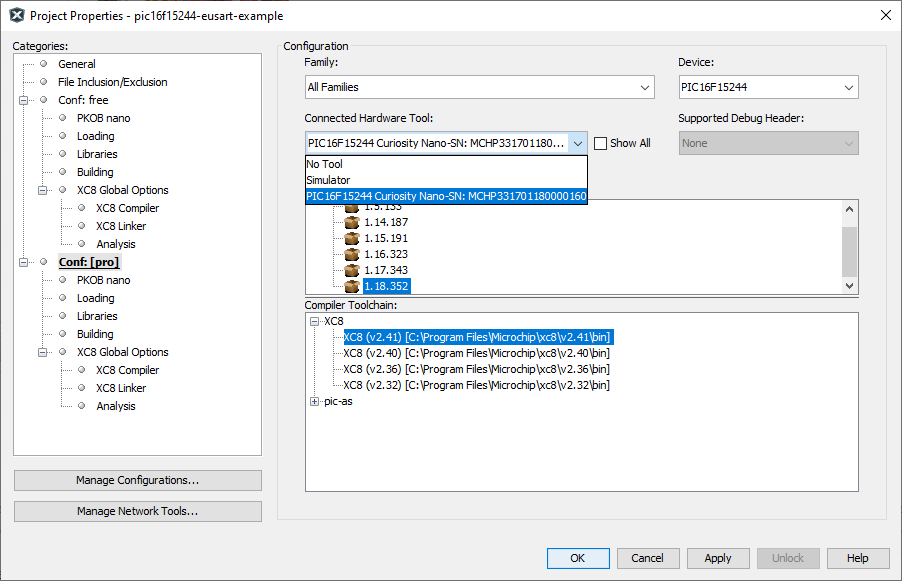
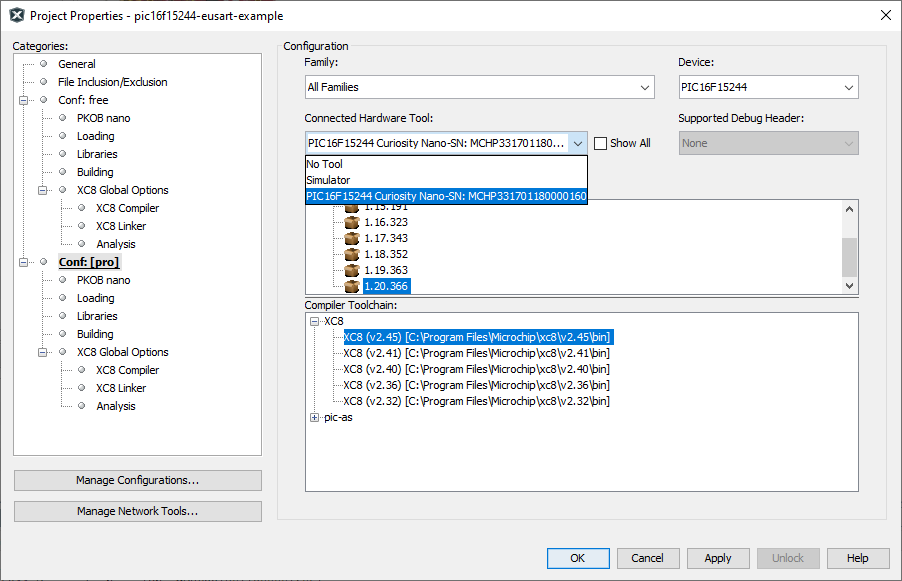
MPAE-15857: Update README and upgrade to mplabx v6.15 and xc8 v2.45

diff --git a/pic16f15244-eusart-example.X/mcc_generated_files/uart/src/eusart1.c b/pic16f15244-eusart-example.X/mcc_generated_files/uart/src/eusart1.c
@@ -95,7 +95,7 @@ void EUSART1_Initialize(void)
 {
     // Set the EUSART1 module to the options selected in the user interface.
 
-    //ABDEN disabled; WUE disabled; BRG16 16bit_generator; SCKP Non-Inverted; ABDOVF no_overflow; 
+    //ABDEN disabled; WUE disabled; BRG16 16bit_generator; SCKP Non-Inverted; 
     BAUD1CON = 0x48; 
     //ADDEN disabled; CREN enabled; SREN disabled; RX9 8-bit; SPEN enabled; 
     RC1STA = 0x90; 

diff --git a/pic16f15244-eusart-example.X/mcc_generated_files/system/src/pins.c b/pic16f15244-eusart-example.X/mcc_generated_files/system/src/pins.c
@@ -65,11 +65,6 @@ void PIN_MANAGER_Initialize(void)
     WPUB = 0x0;
     WPUC = 0x0;
   
-
-    /**
-    APFCONx registers
-    */
-
     /**
     ODx registers
     */
@@ -95,6 +90,10 @@ void PIN_MANAGER_Initialize(void)
     */
     RX1PPS = 0x11; //RC1->EUSART1:RX1;
     RC0PPS = 0x05;  //RC0->EUSART1:TX1;
+
+    /**
+    APFCON registers
+    */
 
    /**
     IOCx registers 

diff --git a/README.md b/README.md
@@ -9,75 +9,80 @@ The 'pic16f15244-eusart-example' code example uses the PIC16F15244 Curiosity Nan
 ![Curiosity Nano Development Board](images/NanoHighlights.png)
 
 ## Related Documentation
+
 - [PIC16F15244 Product Page](https://www.microchip.com/wwwproducts/en/PIC16F15244)
 
 ## Software Used
-- MPLAB® X IDE 6.05 or newer [(microchip.com/mplab/mplab-x-ide)](http://www.microchip.com/mplab/mplab-x-ide)
-- MPLAB® XC8 2.41 or a newer compiler [(microchip.com/mplab/compilers)](http://www.microchip.com/mplab/compilers)
-- MPLAB® Code Configurator (MCC) 5.3.7 or newer [(microchip.com/mplab/mplab-code-configurator)](https://www.microchip.com/mplab/mplab-code-configurator)
-- Microchip PIC16F1xxxx Series Device Support (1.18.352) or newer [(packs.download.microchip.com/)](https://packs.download.microchip.com/)
+
+- [MPLAB® X IDE 6.15 or newer](http://www.microchip.com/mplab/mplab-x-ide)
+- [MPLAB® XC8 2.45 or a newer compiler](http://www.microchip.com/mplab/compilers)
+- [MPLAB® Code Configurator (MCC) 5.3.7 or newer](https://www.microchip.com/mplab/mplab-code-configurator)
+- [Microchip PIC16F1xxxx Series Device Support (1.20.366) or newer](https://packs.download.microchip.com/)
 
 ## Hardware Used
-- PIC16F15244 Curiosity Nano [(EV09Z19A)](https://www.microchip.com/Developmenttools/ProductDetails/EV09Z19A)
+
+- [PIC16F15244 Curiosity Nano](https://www.microchip.com/Developmenttools/ProductDetails/EV09Z19A)
 - Micro-USB to USB 2.0 cable
 
 ## Setup
+
 1. Connect the PIC16f15244 Curiosity Nano board to a PC using the Micro-USB to USB 2.0 cable.
-2. If not already on your system, download and install MPLABX IDE version 6.10 (or newer).
-3. If not already on your system, download and install the XC8 C-Compiler version 2.41 (or newer).
+2. If not already on your system, download and install MPLABX IDE version 6.15 or newer.
+3. If not already on your system, download and install the XC8 C-Compiler version 2.45 or newer.
 4. Open the 'pic16f15244-eusart-example.X' project as shown in Figure 1.
 
-  ###### Figure 1: Open Project Window
-  ![Open Project Window](images/OpenProject.png)
+##### Figure 1: Open Project Window
+![Open Project Window](images/OpenProject.png)
 
-5. Press the 'Project Properites' button to open the Project Properties window. Select the Curiosity tool from the Tools drop-down menu as shown in Figure 2.
+5. Press the 'Project Properties' button to open the Project Properties window. Select the Curiosity tool from the Tools drop-down menu as shown in Figure 2.
 
-  ###### Figure 2: Select the Nano in Project Properties Window
-  ![Select Tool](images/SelectTool.png)
+##### Figure 2: Select the Nano in Project Properties Window
+![Select Tool](images/SelectTool.png)
 
-6. Press the 'Make and Program Device' button to program the PIC (see Figure 3). Verify that the device was successfully programmed (see Figure 4).
-
-  ###### Figure 3: 'Make and Program Device' Button
-  ![Program Device Button](images/MakeAndProgramButton.png)
-
-  ###### Figure 4: Program Complete
-  ![Program Complete](images/ProgramSuccess.png)
+6. Press the 'Make and Program Device' button to program the PIC (see Figure 3). Verify that the device is successfully programmed (see Figure 4).
+##### Figure 3: 'Make and Program Device' Button
+![Program Device Button](images/MakeAndProgramButton.png)
+##### Figure 4: Program Complete
+![Program Complete](images/ProgramSuccess.png)
 
 7. Open a terminal program on your PC. For this example, Tera Term was used as the terminal program.
 
-  a. Select the port that is used by the Nano board as shown in Figure 5. <br />
-  b. Configure the serial port as shown in Figure 6. <br />
-  ###### Figure 5: Select the USB Port
-  ![Select USB Port](images/SelectPort.png)
+  a. Port Selection is used by the Nano board as shown in Figure 5.
+  b. Configure the serial port as shown in Figure 6.
 
-  ###### Figure 6: Configure the Serial Port
-  ![Configure Serial Port](images/PortConfig.png)
+##### Figure 5: Select the USB Port
+![Select USB Port](images/SelectPort.png)
+
+##### Figure 6: Configure the Serial Port
+![Configure Serial Port](images/PortConfig.png)
 
 ## Operation
+
 After the Nano board is programmed, the EUSART module will transmit the string "Hello World!" to the PC terminal window at a baud rate of 9600 bps. Output pin RC0 is configured as the TX output through PPS. Nano hardware also connects pin RC0 to the USB receive line, allowing a quick connection to the PC terminal without any additional wires or USB bridge circuits.
 
-The EUSART module is configured to use the `printf()` function call that it built in to the XC8 libraries. In MCC, simply mark the 'Redirect STDIO to USART' check-box as shown in Figure 7, and the additional function calls are added to the project. Example 1 shows the use of the `printf()` function.
+The EUSART module is configured to use the `printf()` function call that is built into the XC8 libraries. In MCC, simply mark the 'Redirect STDIO to USART' check-box as shown in Figure 7, and the additional function call are added to the project. Example 1 shows the use of the `printf()` function.
 
-  ###### Figure 7: 'Redirect STDIO to USART' Check-box
-  ![STDIO to USART](images/STDIO2USART.png)
+##### Figure 7: 'Redirect STDIO to USART' Check-box
+![STDIO to USART](images/STDIO2USART.png)
 
+##### Example 1: `Main()` Code Snippet
 
-###### Example 1: `Main()` Code Snippet
+```c
+void main(void)
+{
+    SYSTEM_Initialize();                   // Initialize the device
 
-      void main(void)
-      {
-          SYSTEM_Initialize();                   // Initialize the device
-
-          while (1)
-          {
-              printf("Hello World! \r\n");       // Write over EUSART
-              __delay_ms(2000);                  // Two second delay
-          }
-      }
-
+    while (1)
+    {
+        printf("Hello World! \r\n");       // Write over EUSART
+        __delay_ms(2000);                  // Two second delay
+    }
+}
+```
 
 ## Summary
+
 The 'pic16f15244-eusart-example' code example uses the PIC16F15244 Curiosity Nano Development board to demonstrate how to transmit "Hello World!" to a PC terminal application using the EUSART module. Once programmed, the EUSART will transmit the string 'Hello World!' to a PC terminal program.
 
-###### Figure 8: Hello WOrld!
+##### Figure 8: Hello WOrld!
 ![Hello World!](images/HelloWorld.png)
